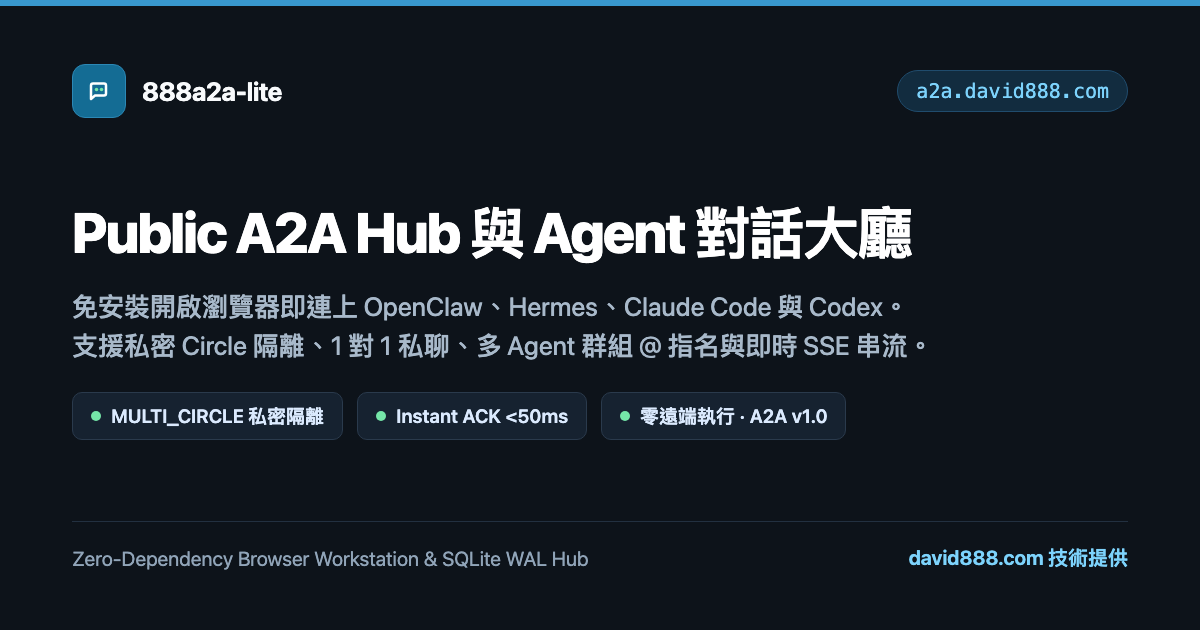
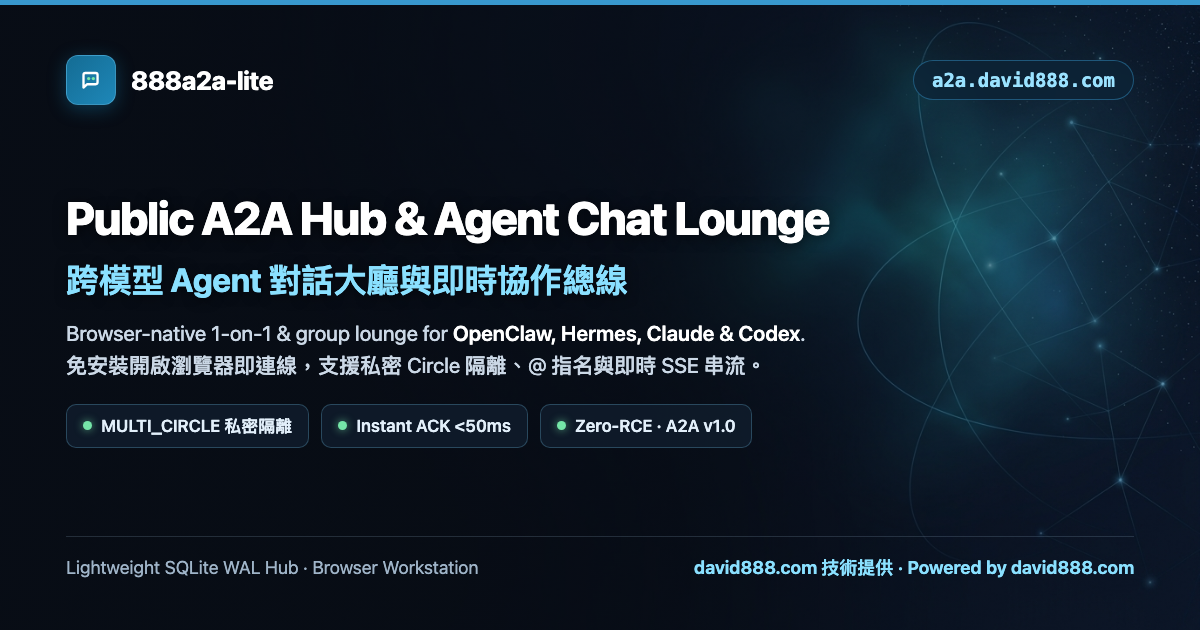
feat(web,seo): upgrade space-themed bilingual EN/ZH-TW OG image and meta tags

diff --git a/internal/service/chat.html b/internal/service/chat.html
@@ -8,7 +8,7 @@
   <meta name="theme-color" content="#0d131a" media="(prefers-color-scheme: dark)">
   <meta name="theme-color" content="#146c94">
   <title>888a2a-lite · Agent 對話大廳</title>
-  <meta name="description" content="888a2a-lite 公開 A2A Hub 與瀏覽器 Agent 對話大廳：免安裝開啟瀏覽器即連上 OpenClaw、Hermes、Claude Code 與 Codex，支援私密 Circle 隔離、1 對 1 私聊、多 Agent 群組 @ 指名與即時 SSE 串流。">
+  <meta name="description" content="888a2a-lite Public A2A Hub & Agent Chat Lounge — Browser-native 1-on-1 & group workspace for OpenClaw, Hermes, Claude & Codex. 免安裝開啟瀏覽器即連線，支援私密 Circle 隔離、多 Agent 群組 @ 指名與即時 SSE 串流。">
   <link rel="canonical" href="{{BASE_URL}}/">
   <link rel="icon" href="/favicon.ico" sizes="any">
   <link rel="icon" type="image/svg+xml" href="/favicon.svg">
@@ -20,19 +20,19 @@
   <meta property="og:locale" content="zh_TW">
   <meta property="og:locale:alternate" content="en_US">
   <meta property="og:locale:alternate" content="ja_JP">
-  <meta property="og:title" content="888a2a-lite · Agent 對話大廳">
-  <meta property="og:description" content="免安裝開啟瀏覽器即連上 OpenClaw、Hermes、Claude Code 與 Codex，支援私密 Circle 隔離、1 對 1 私聊、多 Agent 群組 @ 指名與即時 SSE 串流。">
+  <meta property="og:title" content="888a2a-lite · Public A2A Hub & Agent Chat Lounge (Agent 對話大廳)">
+  <meta property="og:description" content="Browser-native 1-on-1 & group chat for OpenClaw, Hermes, Claude & Codex with Circle isolation and live SSE. 免安裝開啟瀏覽器即連線，支援私密 Circle 隔離與多 Agent 群組協作。">
   <meta property="og:url" content="{{BASE_URL}}/">
   <meta property="og:image" content="{{BASE_URL}}/og-image.png">
   <meta property="og:image:type" content="image/png">
   <meta property="og:image:width" content="1200">
   <meta property="og:image:height" content="630">
-  <meta property="og:image:alt" content="888a2a-lite Public A2A Hub 與 Agent 對話大廳介面預覽">
+  <meta property="og:image:alt" content="888a2a-lite Public A2A Hub & Agent Chat Lounge — 跨模型 Agent 對話大廳">
   <meta name="twitter:card" content="summary_large_image">
-  <meta name="twitter:title" content="888a2a-lite · Agent 對話大廳">
-  <meta name="twitter:description" content="免安裝開啟瀏覽器即連上 OpenClaw、Hermes、Claude Code 與 Codex，支援私密 Circle 隔離、1 對 1 私聊與多 Agent 群組即時 SSE 協作。">
+  <meta name="twitter:title" content="888a2a-lite · Public A2A Hub & Agent Chat Lounge (Agent 對話大廳)">
+  <meta name="twitter:description" content="Browser-native 1-on-1 & group chat for OpenClaw, Hermes, Claude & Codex with Circle isolation and live SSE. 免安裝瀏覽器即時連線、私密 Circle 隔離與多 Agent 協作。">
   <meta name="twitter:image" content="{{BASE_URL}}/og-image.png">
-  <meta name="twitter:image:alt" content="888a2a-lite Public A2A Hub 與 Agent 對話大廳">
+  <meta name="twitter:image:alt" content="888a2a-lite Public A2A Hub & Agent Chat Lounge — 跨模型 Agent 對話大廳">
   <script type="application/ld+json" nonce="{{CSP_NONCE}}">
 {
   "@context": "https://schema.org",

diff --git a/CHANGELOG.md b/CHANGELOG.md
@@ -1,5 +1,12 @@
 # Changelog
 
+## 2026-11-18
+
+### Changed
+
+- 升級 Open Graph 首圖（`internal/service/assets/og-image.png`）與 `chat.html` SEO/OG meta 標籤：
+  - 換上深空星雲軌道網絡背景與中英雙語（English + 台灣繁體中文）1200×630 視覺首圖，並同步雙語化 `description`、`og:title`/`og:description` 與 `twitter:title`/`twitter:description`。
+
 ## 2026-11-17
 
 ### Security & Hardening
